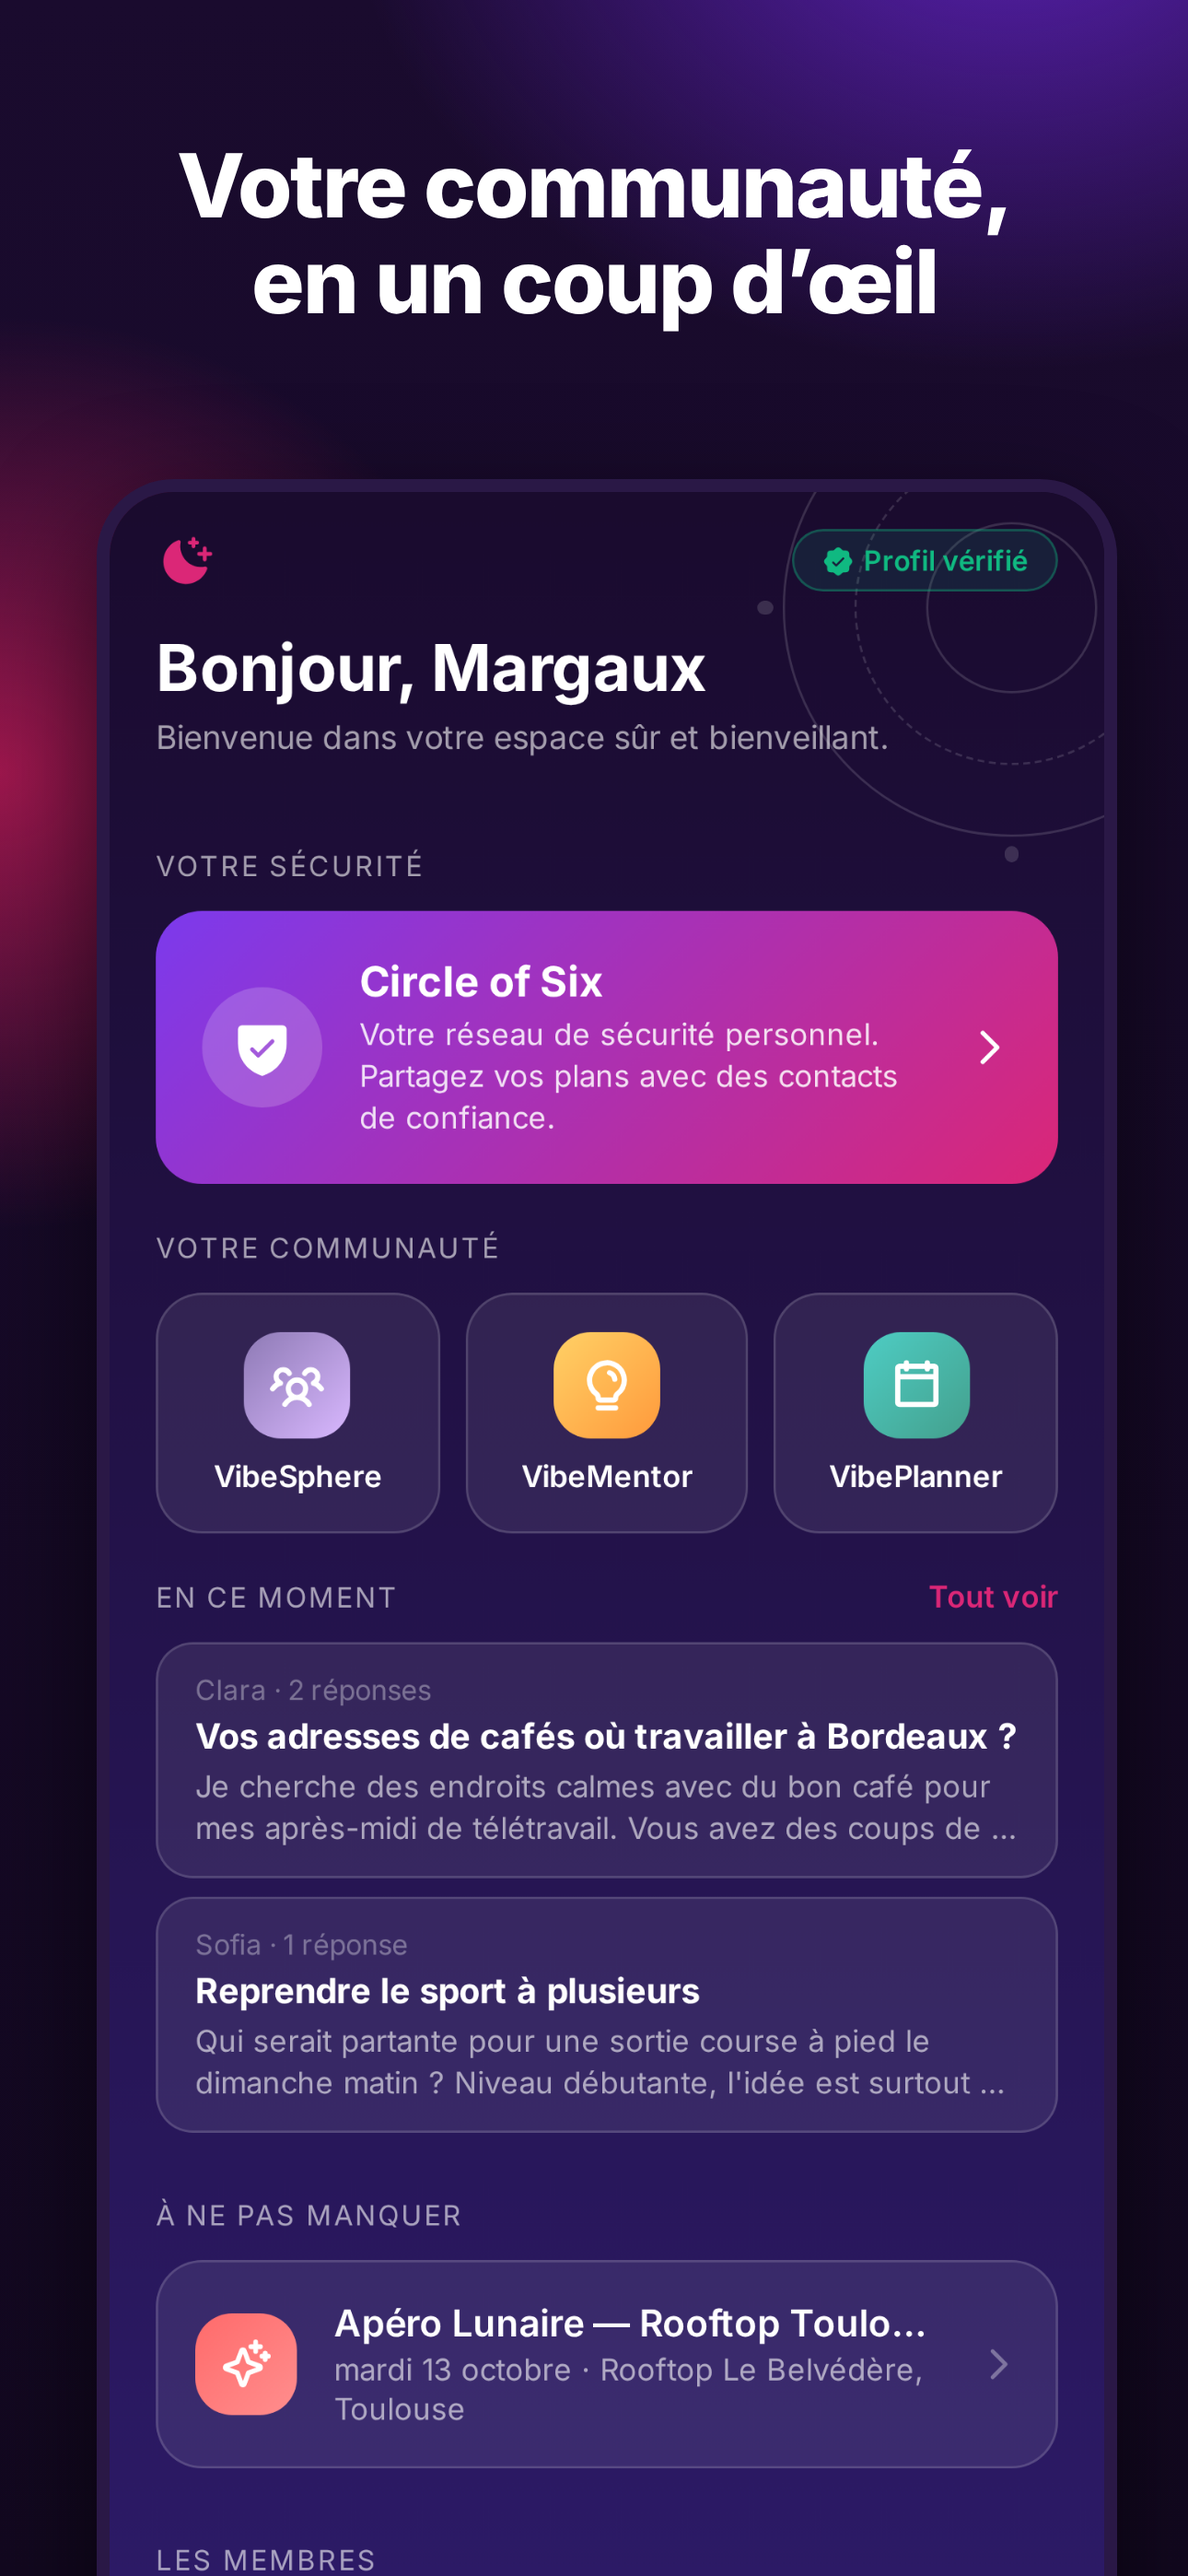
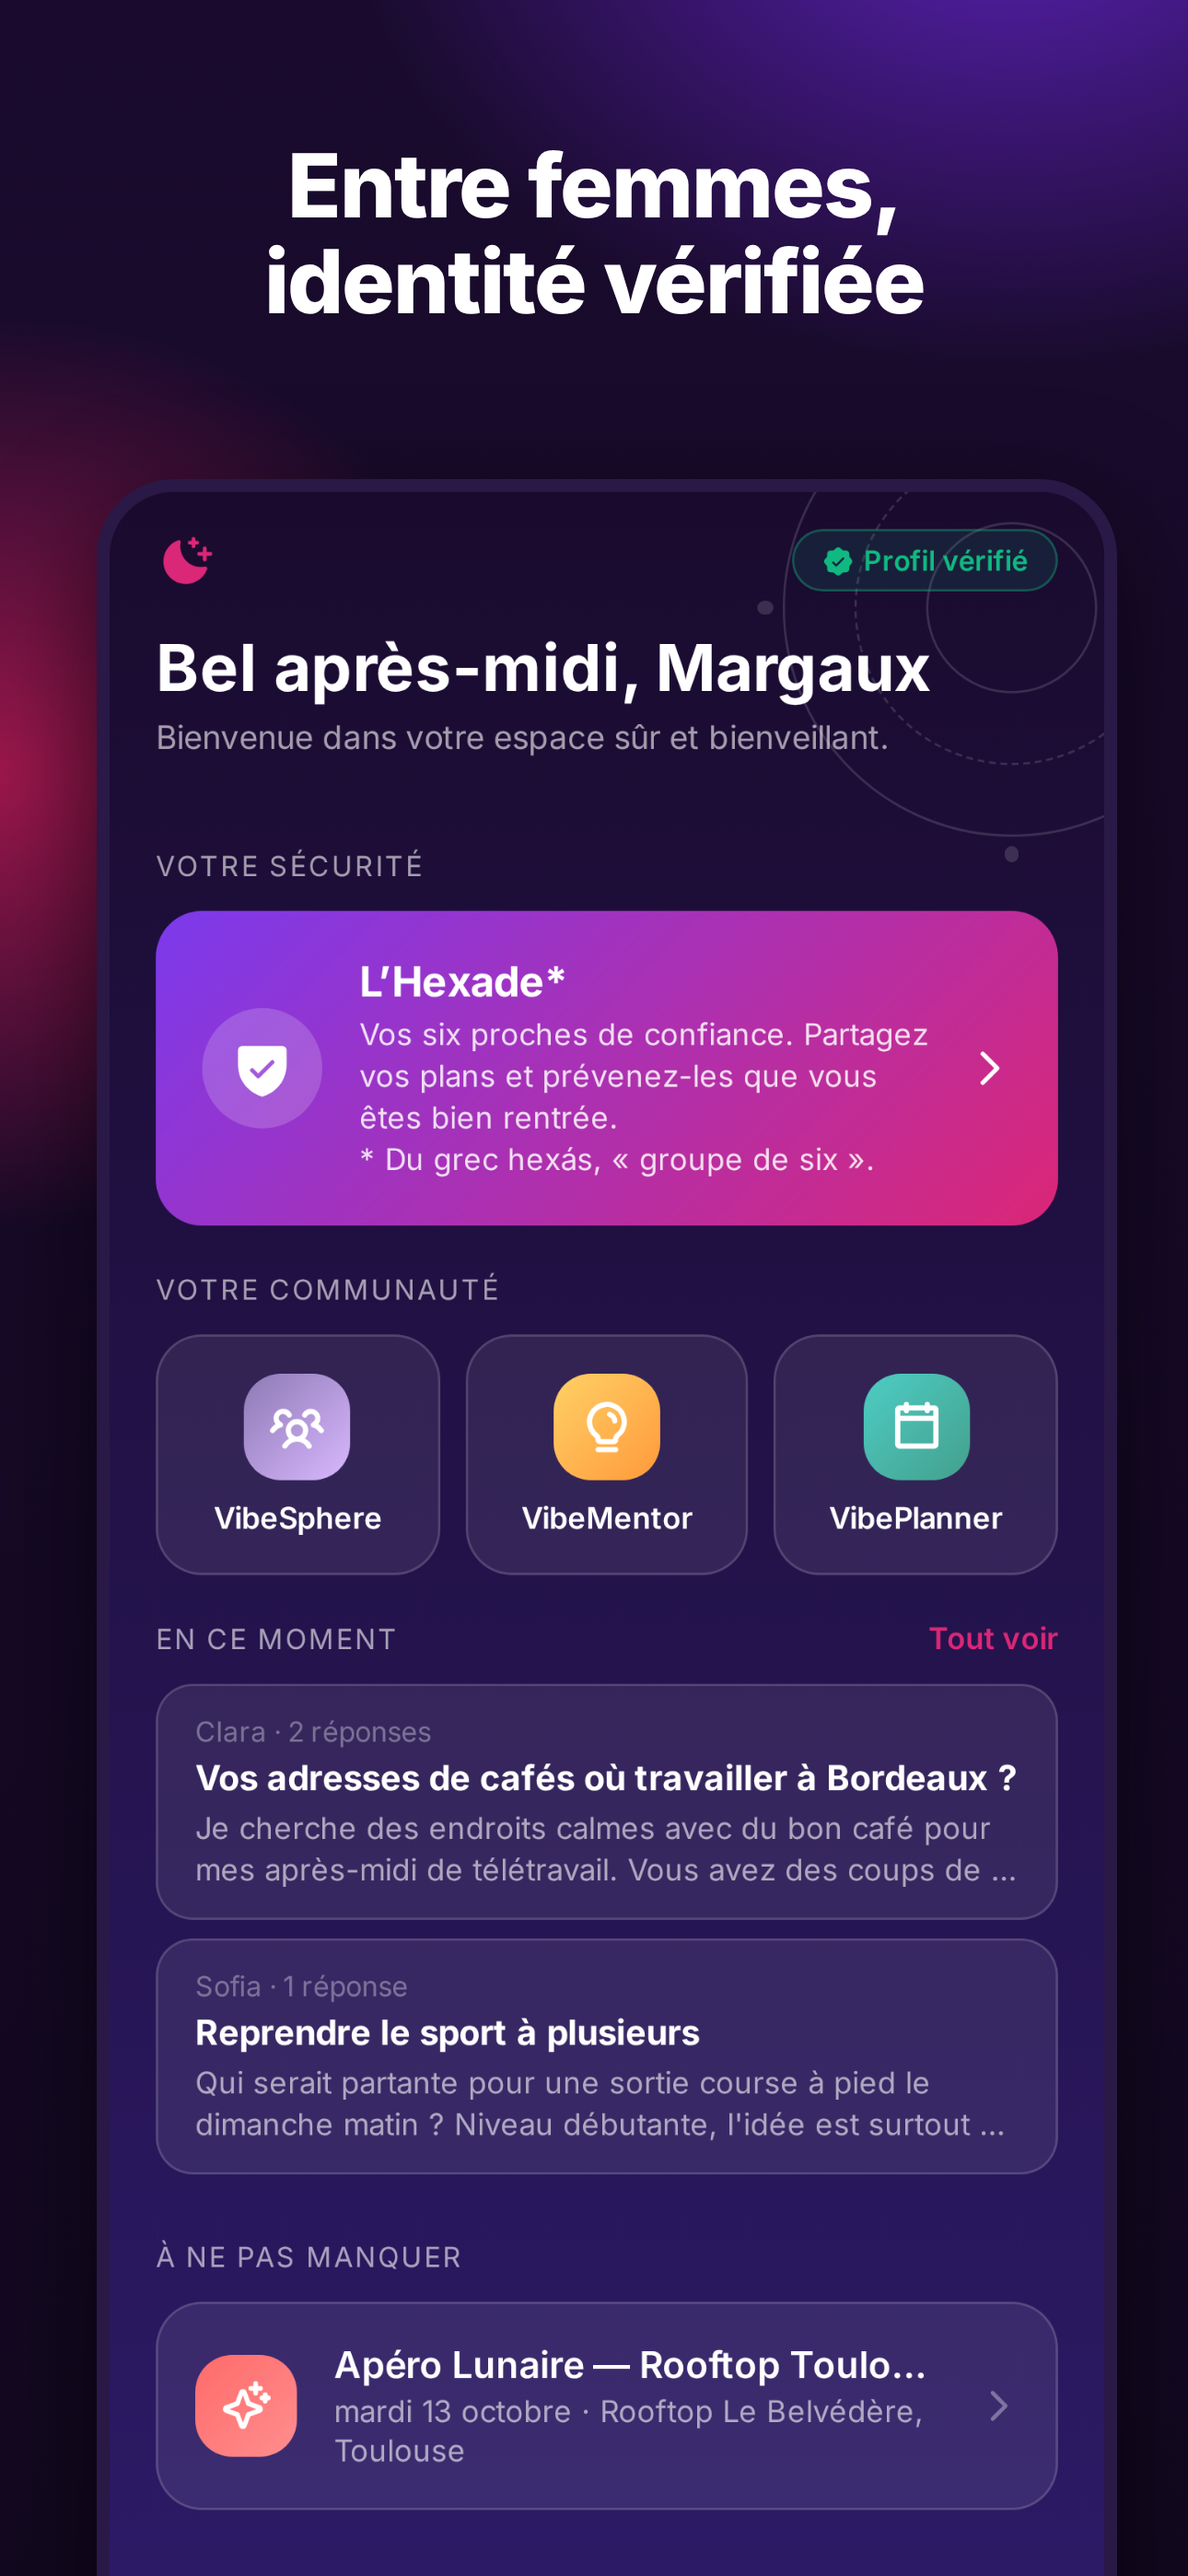
feat(app): l'Hexade remplace Circle of Six, écran d'accueil en rencontre assumée
Claude-Session: https://claude.ai/code/session_014asdtXi9ToGCrNaXpMJKLw

diff --git a/packages/mobile/app/(app)/circle.tsx b/packages/mobile/app/(app)/circle.tsx
@@ -1,5 +1,8 @@
 /**
- * Circle of Six — réseau de sécurité personnel.
+ * L'Hexade (anciennement « Circle of Six ») — réseau de sécurité personnel.
+ *
+ * Hexade : du grec hexás, « groupe de six ». Le nom est toujours accompagné de
+ * sa définition (astérisque) là où il est présenté.
  *
  * Vrai module de sécurité (et non de mise en relation) : l'utilisatrice ajoute
  * jusqu'à 6 contacts de confiance (stockés localement, chiffrés, jamais envoyés
@@ -88,7 +91,7 @@ export default function CircleScreen() {
   const handleRemove = (contact: TrustedContact) => {
     Alert.alert(
       'Retirer ce contact ?',
-      `${contact.name} ne fera plus partie de votre Circle of Six.`,
+      `${contact.name} ne fera plus partie de votre Hexade.`,
       [
         { text: 'Annuler', style: 'cancel' },
         {
@@ -120,7 +123,7 @@ export default function CircleScreen() {
           <View style={styles.headerCenter}>
             <View style={styles.titleRow}>
               <ShieldCheck size={18} color={Colors.accentPink} weight="fill" />
-              <Text style={styles.title}>Circle of Six</Text>
+              <Text style={styles.title}>L’Hexade*</Text>
             </View>
             <Text style={styles.subtitle}>Votre réseau de sécurité personnel</Text>
           </View>
@@ -146,6 +149,10 @@ export default function CircleScreen() {
                 Vos contacts restent privés, sur votre téléphone.
               </Text>
             </View>
+            <Text style={styles.definition}>
+              * Hexade : du grec hexás, « groupe de six ». Pour les pythagoriciens,
+              le six est le nombre de l’harmonie et de l’union.
+            </Text>
 
             {/* Actions rapides */}
             <Text style={styles.sectionLabel}>Actions rapides</Text>
@@ -283,7 +290,7 @@ export default function CircleScreen() {
             />
 
             <GradientButton
-              label="Ajouter à mon Circle of Six"
+              label="Ajouter à mon Hexade"
               onPress={handleAdd}
               loading={saving}
               style={styles.modalCta}
@@ -344,6 +351,7 @@ const styles = StyleSheet.create({
     justifyContent: 'center',
   },
   introText: { flex: 1, fontSize: 13, lineHeight: 18, color: Colors.textSecondary },
+  definition: { fontSize: 12, lineHeight: 17, fontStyle: 'italic', color: Colors.textMuted, marginTop: -4, marginBottom: Spacing.base, paddingHorizontal: 4 },
 
   sectionLabel: {
     ...Typography.caption,

diff --git a/packages/mobile/app/(app)/(tabs)/profile.tsx b/packages/mobile/app/(app)/(tabs)/profile.tsx
@@ -670,7 +670,7 @@ export default function ProfileScreen() {
                     { icon: <Lightning size={14} color="#a855f7" weight="regular" />, label: 'VibeSphere', route: '/(app)/vibesphere', bg: 'rgba(168,85,247,0.13)' },
                     { icon: <BookOpen size={14} color="#ec4899" weight="regular" />, label: 'VibeMentor', route: '/(app)/vibementor', bg: 'rgba(236,72,153,0.13)' },
                     { icon: <CalendarBlank size={14} color="#818cf8" weight="regular" />, label: 'VibePlanner', route: '/(app)/vibeplanner', bg: 'rgba(129,140,248,0.13)' },
-                    { icon: <NP><ShieldCheck size={14} color="#34d399" weight="regular" /></NP>, label: 'Circle of Six', route: '/(app)/circle', bg: 'rgba(52,211,153,0.13)' },
+                    { icon: <NP><ShieldCheck size={14} color="#34d399" weight="regular" /></NP>, label: 'L’Hexade', route: '/(app)/circle', bg: 'rgba(52,211,153,0.13)' },
                     { icon: <CalendarBlank size={14} color="#f472b6" weight="regular" />, label: 'Événements', route: '/(app)/evenements', bg: 'rgba(244,114,182,0.13)' },
                     { icon: <ChatCircleText size={14} color="#4ade80" weight="regular" />, label: 'Communauté', route: '/(app)/(tabs)/communaute', bg: 'rgba(74,222,128,0.13)' },
                     { icon: <Question size={14} color="#34d399" weight="regular" />, label: 'FAQ', route: '/(app)/faq', bg: 'rgba(52,211,153,0.13)' },

diff --git a/packages/mobile/app/(app)/(tabs)/accueil.tsx b/packages/mobile/app/(app)/(tabs)/accueil.tsx
@@ -1,7 +1,7 @@
 /**
  * Accueil — hub de la communauté.
  *
- * Premier écran de l'app : profil vérifié, sécurité (Circle of Six),
+ * Premier écran de l'app : profil vérifié, sécurité (l'Hexade),
  * communauté (VibeSphere, VibeMentor, VibePlanner), événements Luna, puis
  * l'annuaire des membres et les affinités de la semaine.
  */
@@ -133,10 +133,11 @@ export default function AccueilScreen() {
                 <ShieldCheck size={28} color={Colors.textPrimary} weight="fill" />
               </View>
               <View style={styles.safetyBody}>
-                <Text style={styles.safetyTitle}>Circle of Six</Text>
+                <Text style={styles.safetyTitle}>L’Hexade*</Text>
                 <Text style={styles.safetySubtitle}>
-                  Votre réseau de sécurité personnel. Partagez vos plans avec
-                  des contacts de confiance.
+                  Vos six proches de confiance. Partagez vos plans et
+                  prévenez-les que vous êtes bien rentrée.
+                  {'\n'}* Du grec hexás, « groupe de six ».
                 </Text>
               </View>
               <CaretRight size={20} color={Colors.textPrimary} weight="bold" />

diff --git a/packages/mobile/lib/demoData.ts b/packages/mobile/lib/demoData.ts
@@ -399,7 +399,7 @@ export const demoMentorPosts: MentorPost[] = [
       {
         _id: 'demo-ans-1',
         userId: { _id: IDS.ines, pseudonyme: 'Inès', image: W(20) },
-        content: "J'utilise le Circle of Six : je partage le lieu et l'heure à deux amies de confiance avant chaque rencontre. Ça change tout niveau sérénité.",
+        content: "J'utilise l'Hexade : je partage le lieu et l'heure à deux amies de confiance avant chaque rencontre. Ça change tout niveau sérénité.",
         likes: [IDS.clara, IDS.jade, IDS.sofia], isAccepted: true, createdAt: hr(8),
       },
       {

diff --git a/packages/mobile/app/(app)/affinites.tsx b/packages/mobile/app/(app)/affinites.tsx
@@ -3,7 +3,7 @@
  * les affinités (score de compatibilité + like).
  *
  * NB : c'était historiquement l'écran « Circle of Six ». Il a été renommé car
- * « Circle of Six » désigne désormais le vrai réseau de sécurité personnel
+ * ce nom a ensuite désigné le réseau de sécurité personnel, aujourd'hui « l'Hexade »
  * (voir app/(app)/circle.tsx). Cet écran-ci reste une fonctionnalité de
  * découverte/mise en relation, honnêtement nommée.
  */

diff --git a/packages/mobile/app/(auth)/onboarding.tsx b/packages/mobile/app/(auth)/onboarding.tsx
@@ -40,7 +40,7 @@ const slides: Slide[] = [
     id: '3',
     emoji: '💫',
     title: 'Votre sécurité avant tout',
-    subtitle: 'Identité vérifiée pour toutes, signalement et blocage, et Circle of Six pour prévenir vos proches quand vous sortez.',
+    subtitle: 'Identité vérifiée pour toutes, signalement et blocage, et l’Hexade*, vos six proches de confiance à prévenir quand vous sortez. (* du grec hexás, « groupe de six »)',
   },
 ];
 

diff --git a/packages/mobile/lib/circleSafety.ts b/packages/mobile/lib/circleSafety.ts
@@ -1,5 +1,5 @@
 /**
- * Circle of Six — réseau de sécurité personnel.
+ * L'Hexade (anciennement « Circle of Six ») — réseau de sécurité personnel.
  *
  * Les « contacts de confiance » sont désormais persistés **côté serveur**
  * (champ User.trustedContacts, routes /api/users/trusted-contacts) pour être
